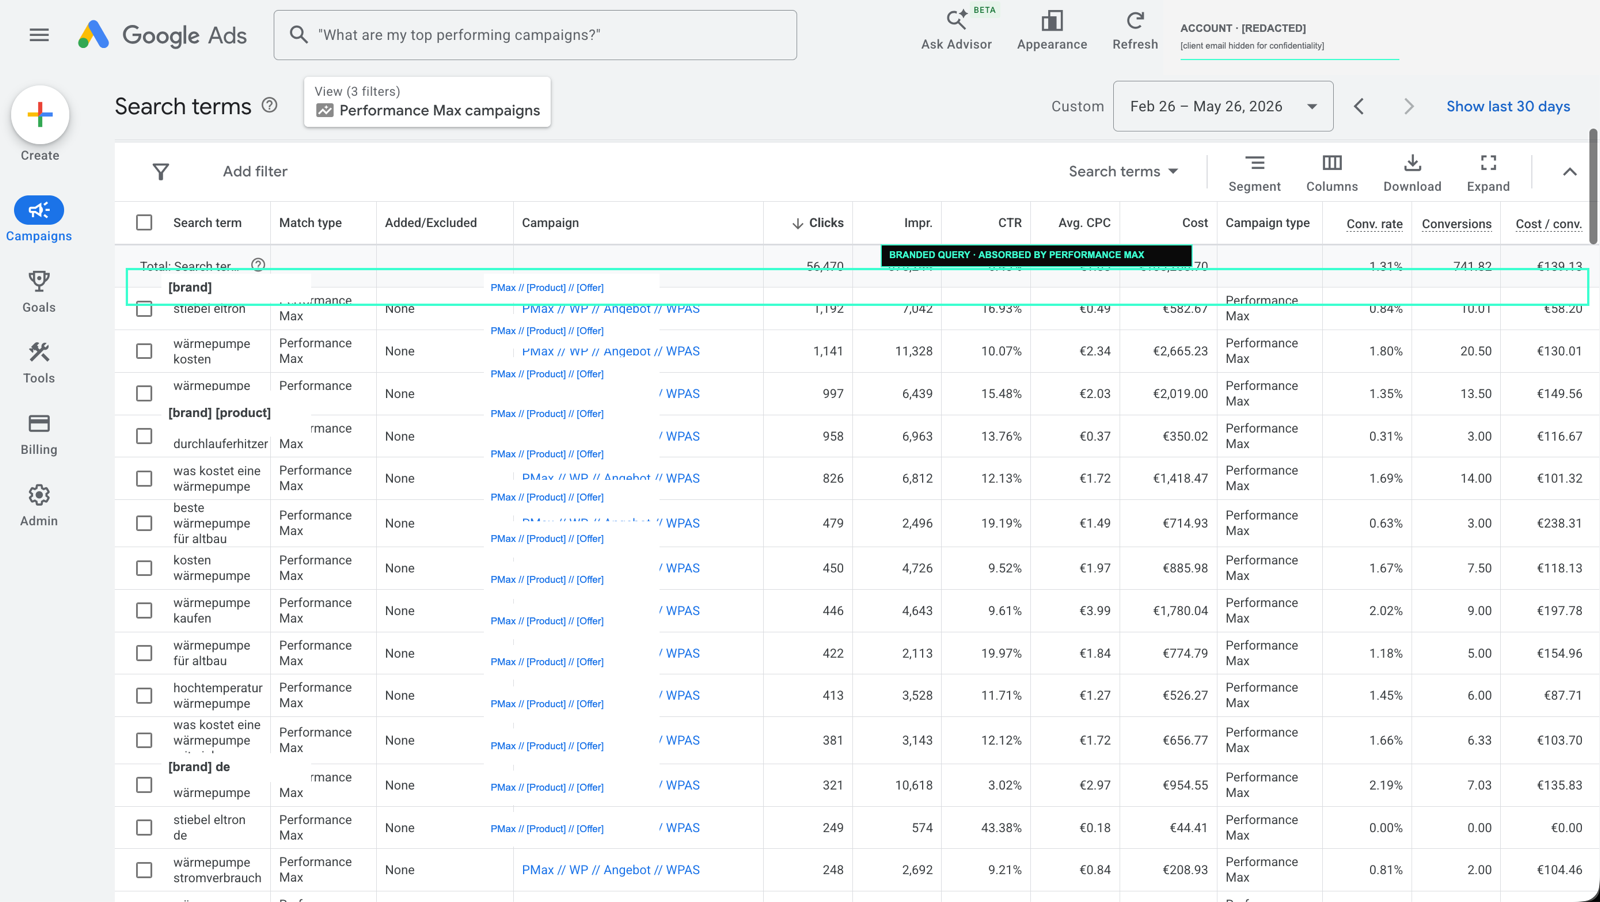
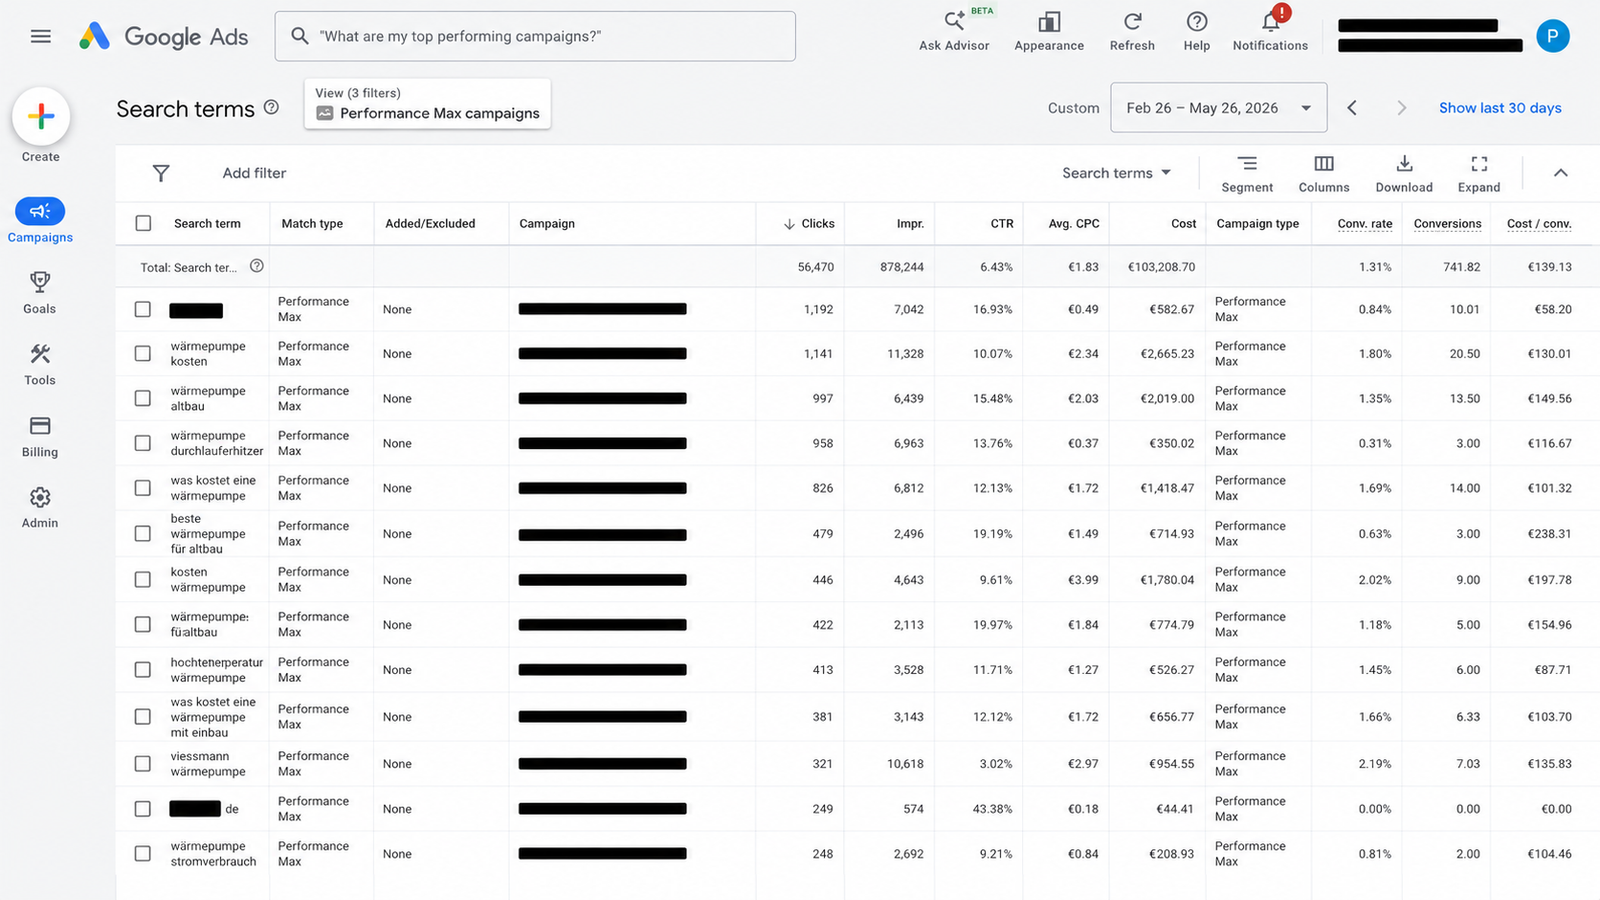
Replace Fig. 1 with correct source image (1600×900) in PMax comparison post

diff --git a/public/es/blog/google-ads-vs-meta-ads-vs-tiktok-ads-ecommerce-2026/index.html b/public/es/blog/google-ads-vs-meta-ads-vs-tiktok-ads-ecommerce-2026/index.html
@@ -265,7 +265,7 @@
         <picture>
           <source srcset="../../../blog/google-ads-vs-meta-ads-vs-tiktok-ads-ecommerce-2026/pmax-branded-search-absorbed-attribution-2026.webp" type="image/webp" />
           <img src="../../../blog/google-ads-vs-meta-ads-vs-tiktok-ads-ecommerce-2026/pmax-branded-search-absorbed-attribution-2026.png"
-               width="1600" height="902"
+               width="1600" height="900"
                loading="lazy" decoding="async"
                alt="Informe de términos de búsqueda de Google Ads de una campaña Performance Max que muestra cómo una consulta de marca es absorbida por la campaña PMax y atribuida como conversión de PMax. Cuenta real de cliente, anonimizada. Q1 2026." />
         </picture>

diff --git a/public/de/blog/google-ads-vs-meta-ads-vs-tiktok-ads-ecommerce-2026/index.html b/public/de/blog/google-ads-vs-meta-ads-vs-tiktok-ads-ecommerce-2026/index.html
@@ -272,7 +272,7 @@
         <picture>
           <source srcset="../../../blog/google-ads-vs-meta-ads-vs-tiktok-ads-ecommerce-2026/pmax-branded-search-absorbed-attribution-2026.webp" type="image/webp" />
           <img src="../../../blog/google-ads-vs-meta-ads-vs-tiktok-ads-ecommerce-2026/pmax-branded-search-absorbed-attribution-2026.png"
-               width="1600" height="902"
+               width="1600" height="900"
                loading="lazy" decoding="async"
                alt="Google Ads Suchbegriffe-Bericht einer Performance-Max-Kampagne, der zeigt, wie eine Marken-Suchanfrage von PMax vereinnahmt und als PMax-Conversion verbucht wird. Echter Kunden-Account, anonymisiert. Q1 2026." />
         </picture>

diff --git a/public/blog/google-ads-vs-meta-ads-vs-tiktok-ads-ecommerce-2026/index.html b/public/blog/google-ads-vs-meta-ads-vs-tiktok-ads-ecommerce-2026/index.html
@@ -387,7 +387,7 @@
         <picture>
           <source srcset="pmax-branded-search-absorbed-attribution-2026.webp" type="image/webp" />
           <img src="pmax-branded-search-absorbed-attribution-2026.png"
-               width="1600" height="902"
+               width="1600" height="900"
                loading="lazy" decoding="async"
                alt="Google Ads search-terms report from a Performance Max campaign showing a branded search query absorbed into the PMax campaign and credited as a PMax conversion. Real client account, anonymised. Q1 2026." />
         </picture>
